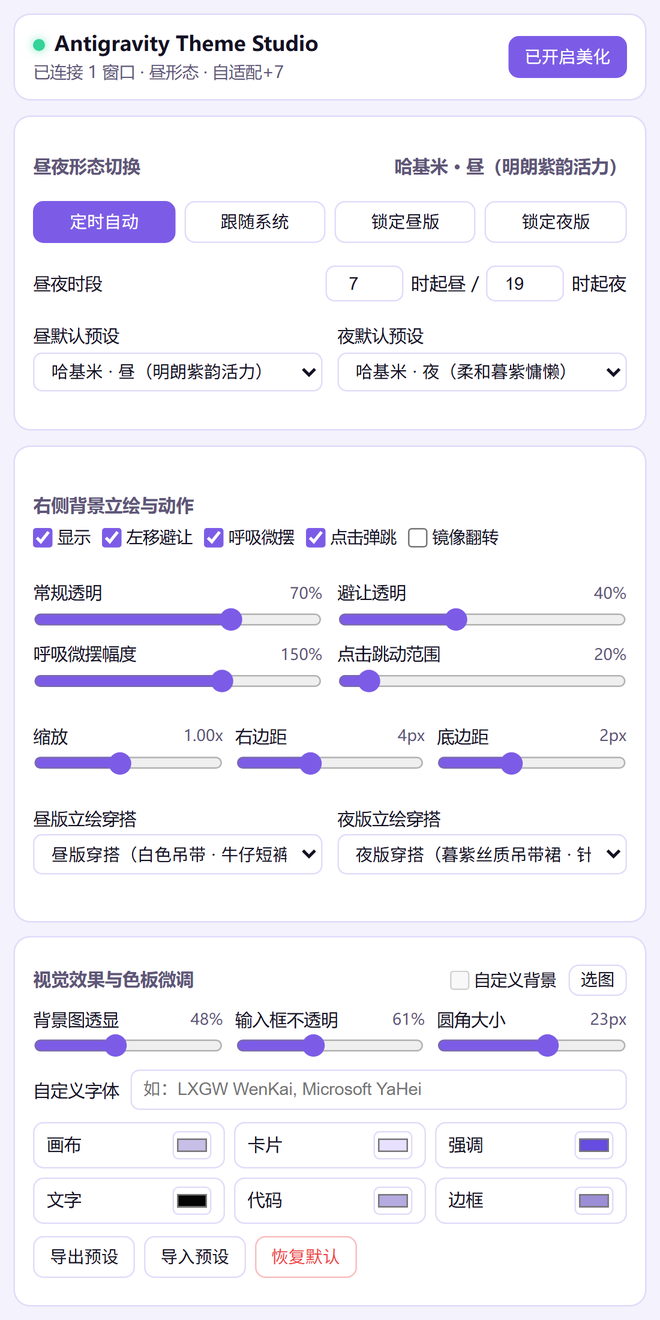
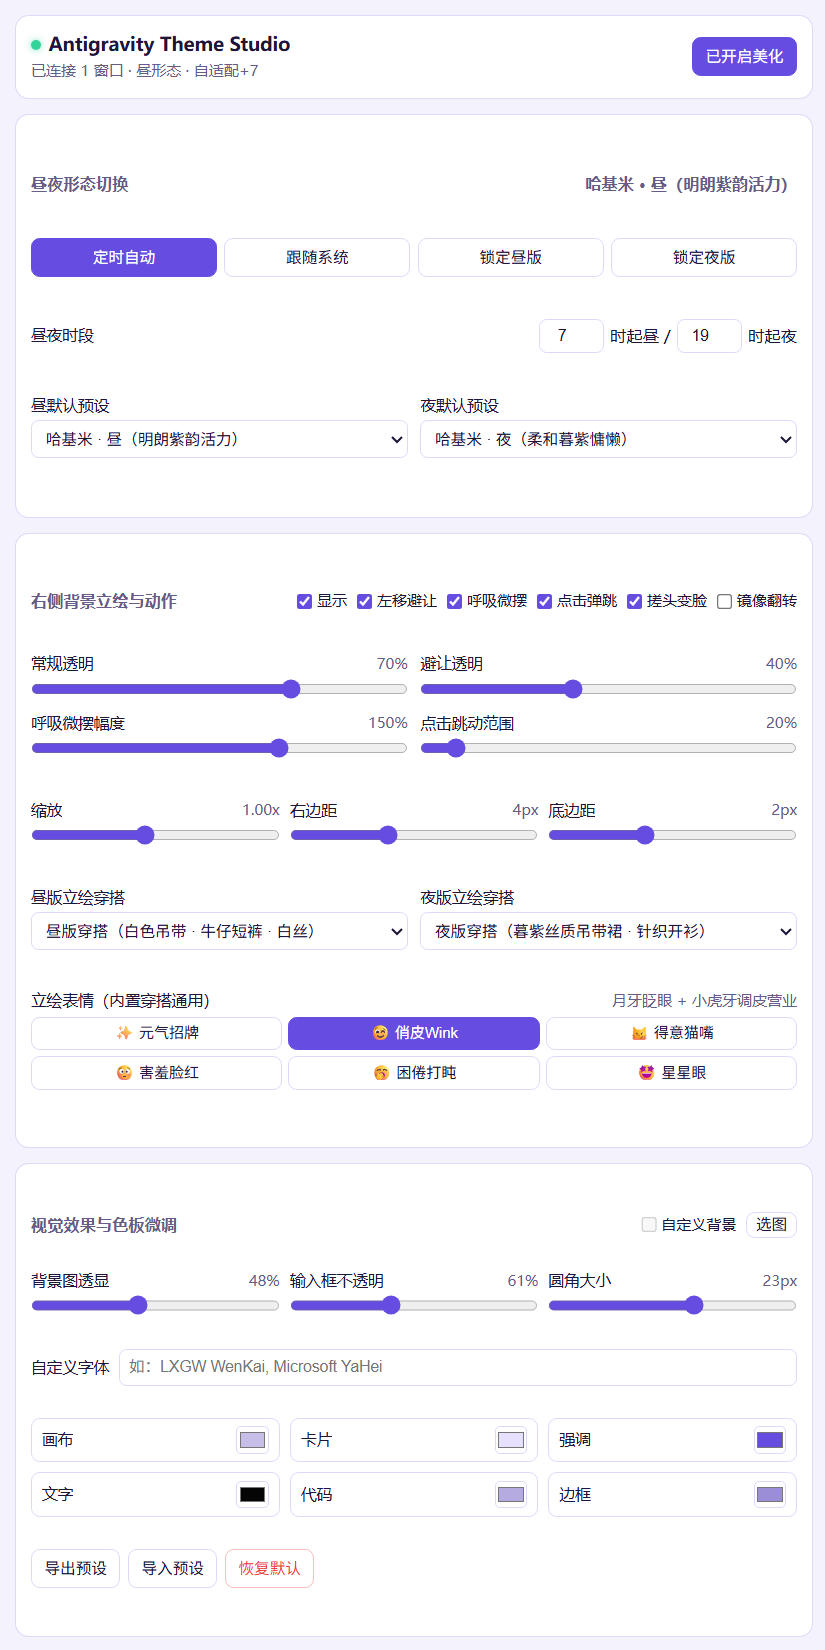
docs: 更新新版控制面板截图并补充欢迎自由发挥说明

diff --git a/README.md b/README.md
@@ -141,6 +141,12 @@
 
 ---
 
+## 🎉 自由发挥 & 欢迎共创
+
+本项目基于宽松的 MIT 协议开源——不管是塞入自己的本命立绘、爆改专属色板预设、新增更多魔性表情差分，还是直接魔改 WebGL 物理参数与交互脑洞，**欢迎大家自由发挥！** 喜欢的话欢迎点个 ⭐ Star，或直接提 Issue / PR 分享你的神仙配色和二创玩法！
+
+---
+
 <div align="center">
   <sub>基于 <a href="LICENSE">MIT License</a> 开源 · Made for Antigravity Desktop</sub>
 </div>
